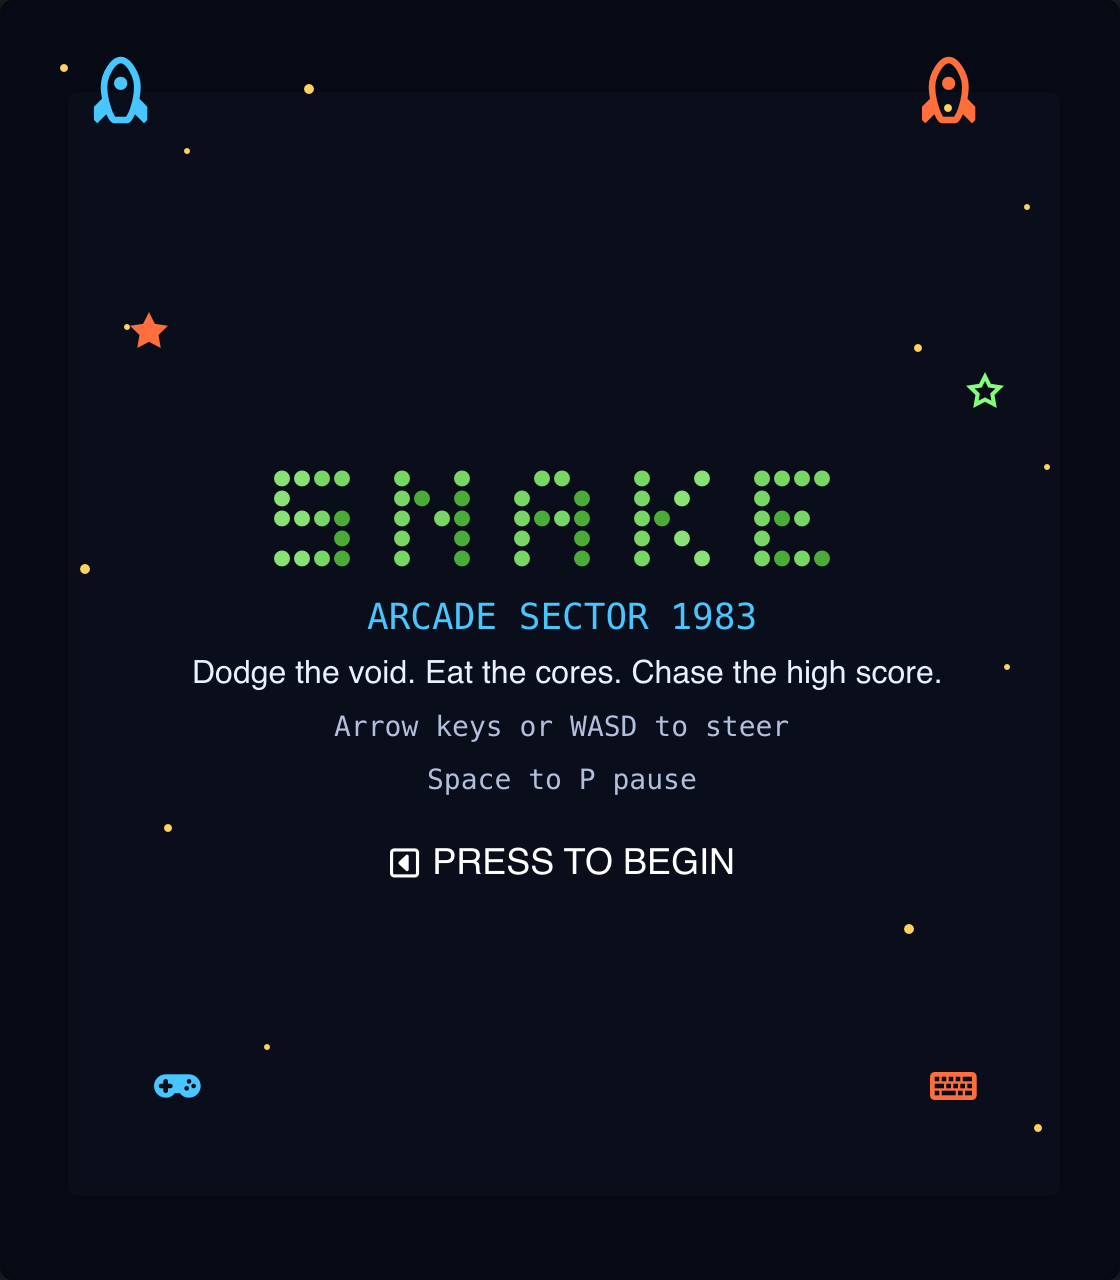
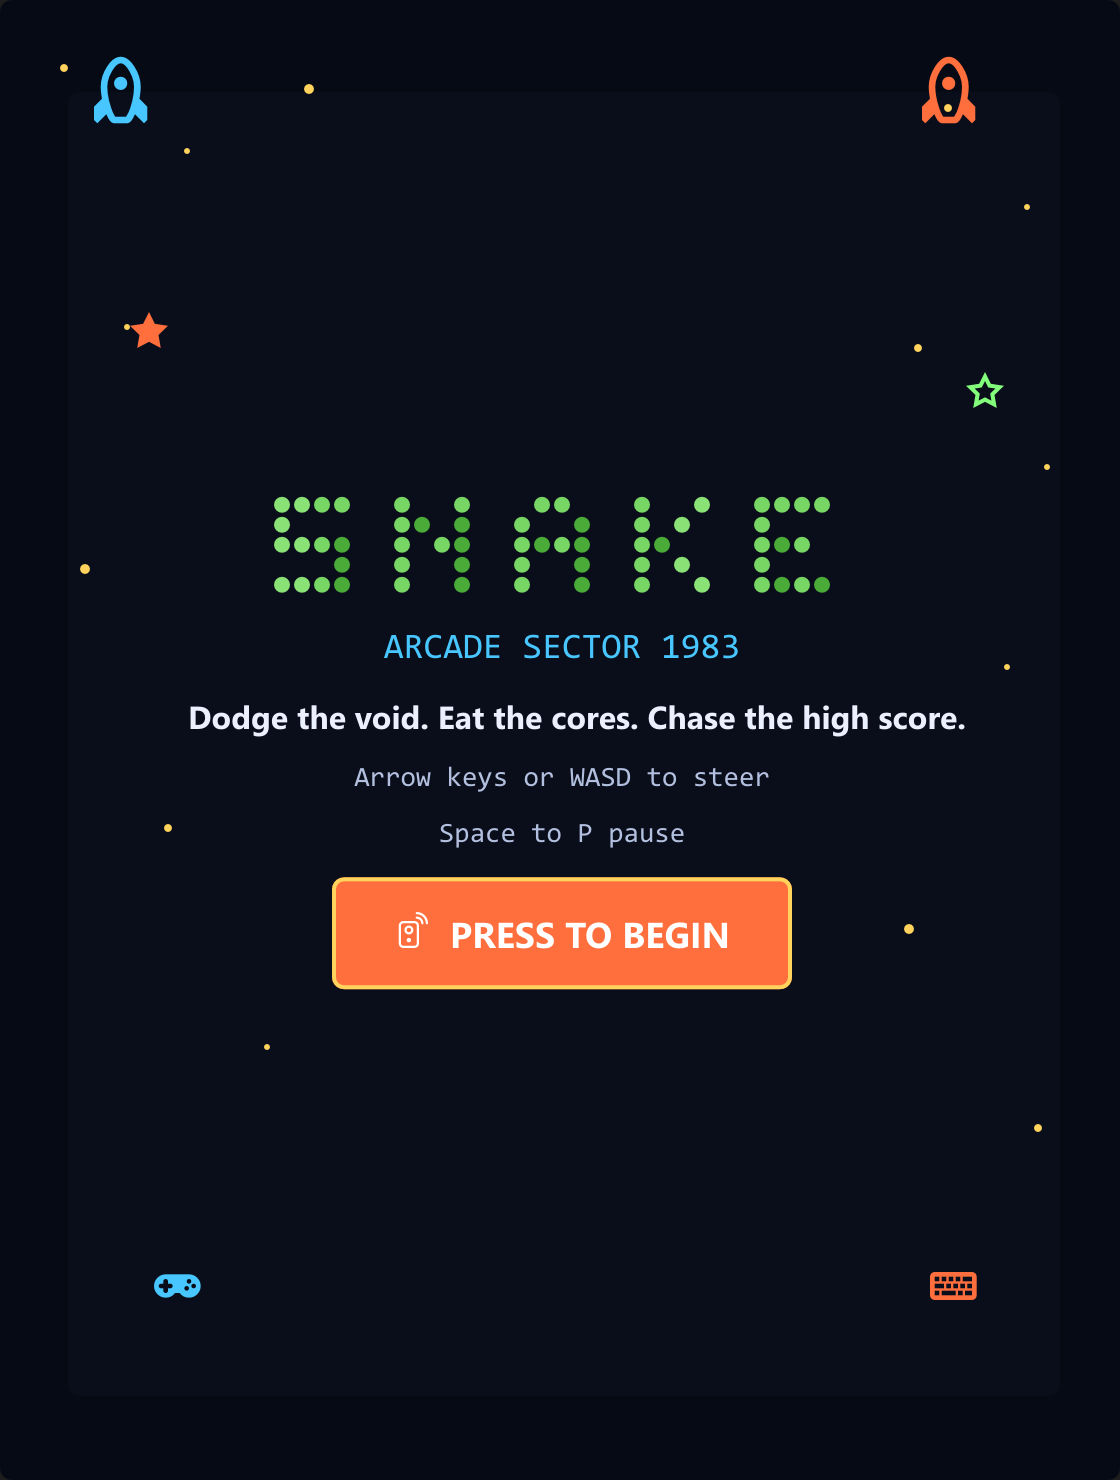
fix(examples): open snake tall enough for its play screen
The play screen's content is 693 px tall with 16 px padding each side,
so its Pause/Restart row and the controls line ended below the fixed
560x640 window (the row at y=652). This predates #1216. The window is
now 740 high, which centres the content with about 23 px to spare. The
landing screen's bottom icons keep their distance from the lower edge
rather than a y chosen for 640, and the screenshot is regenerated.

diff --git a/examples/snake/main.go b/examples/snake/main.go
@@ -42,7 +42,7 @@ func main() {
 		State:     &App{Game: NewGame(gridWidth, gridHeight, nil)},
 		Title:     "Snake",
 		Width:     560,
-		Height:    640,
+		Height:    740,
 		FixedSize: true,
 		OnInit: func(w *gui.Window) {
 			w.SetView(mainView)
@@ -283,8 +283,9 @@ func landingBackdrop(ww, wh float32, _ int) gui.View {
 		{458, 22, 40, gui.RGB(255, 110, 61), gui.IconRocket},
 		{62, 150, 24, gui.RGB(255, 110, 61), gui.IconStar},
 		{480, 180, 24, gui.RGB(131, 255, 123), gui.IconStarO},
-		{74, 526, 28, gui.RGB(72, 198, 255), gui.IconGamepad},
-		{462, 526, 28, gui.RGB(255, 110, 61), gui.IconKeyboard},
+		// The bottom pair keeps its distance from the window's lower edge.
+		{74, wh - 114, 28, gui.RGB(72, 198, 255), gui.IconGamepad},
+		{462, wh - 114, 28, gui.RGB(255, 110, 61), gui.IconKeyboard},
 	}
 	theme := gui.CurrentTheme()
 	for _, icon := range icons {
